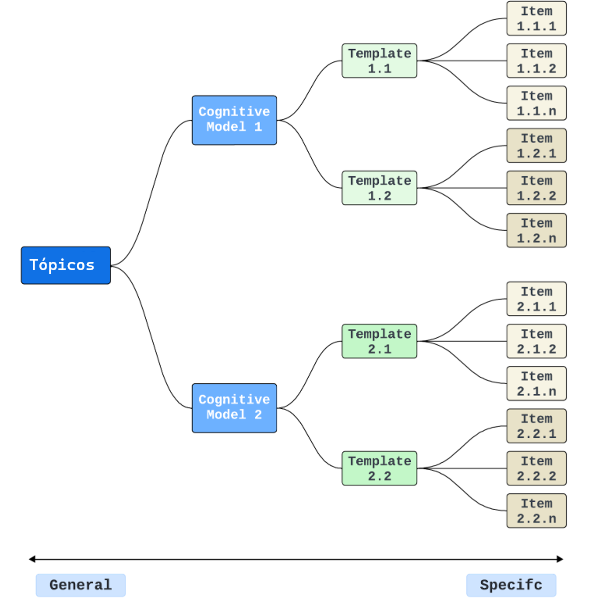
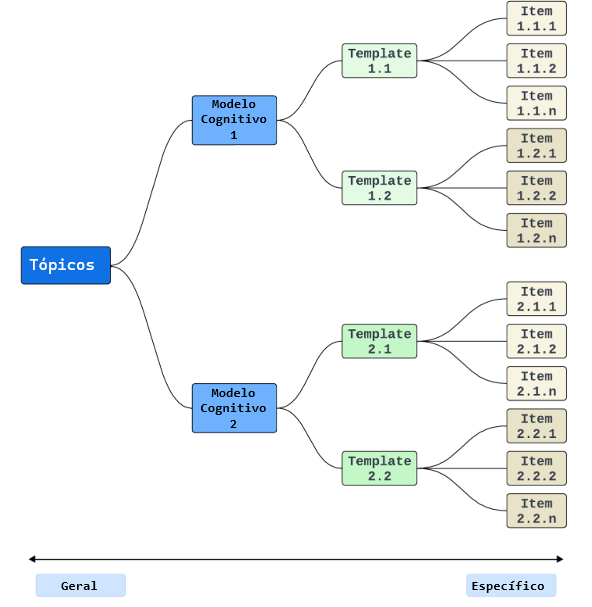
proposta conceitual 1

diff --git a/capitulos/cap5-proposta-conceitual.tex b/capitulos/cap5-proposta-conceitual.tex
@@ -1,6 +1,6 @@
-\chapter{Proposta Conceitual}
+\chapter{Modelo Conceitual}
 
-Esta seção apresenta uma proposta de utilização de \textit{templates} multicamadas para criar e manipular questões de programação. A ideia inclui o emprego de inteligência artificial generativa como ferramenta complementar, responsável por sugerir variações criativas no \textit{template} base, tais como modificações de contexto, acréscimo de novos cenários e introdução de pontos de variação. Além disso, a IA generativa também oferece suporte no fornecimento de \textit{feedback} imediato ao estudante após a submissão da resposta, apontando erros, sugerindo melhorias e apresentando explicações detalhadas sobre o problema e possíveis soluções. 
+Este capítulo apresenta um modelo de utilização de \textit{templates} multicamadas para construir e manipular questões de programação. A ideia inclui o emprego de inteligência artificial generativa como ferramenta complementar, responsável por sugerir variações criativas no \textit{template} base, tais como modificações de contexto, acréscimo de novos cenários e introdução de pontos de variação. Além disso, a IA generativa também oferece suporte no fornecimento de \textit{feedback} imediato ao estudante após a submissão da resposta, apontando erros, sugerindo melhorias e apresentando explicações detalhadas sobre o problema e possíveis soluções. 
 
 \section{Geral para o Específico}
 A geração automática de questões segue um processo hierárquico que se inicia em tópicos mais amplos e evolui até questões específicas. Em primeiro lugar, são definidos os tópicos da ementa, que correspondem a áreas ou domínios do conhecimento a serem avaliados (por exemplo, Estruturas de Repetição, Estruturas de Decisão, Matrizes, Funções). Esses tópicos abrangem conteúdos específicos do currículo e orientam a elaboração dos modelos cognitivos. Na etapa seguinte, estes modelos cognitivos são convertidos em \textit{templates}, que servirão de base para a geração das questões. Essa abordagem reflete a metodologia recomendada para a criação de questões baseadas em \textit{templates}. 
@@ -15,10 +15,7 @@ A geração automática de questões segue um processo hierárquico que se inici
 
 \section{Escala de proficiência}
 
-A classificação das questões com base em atributos e características, como o nível de dificuldade, é essencial nas avaliações educacionais. Agrupar questões por níveis de dificuldade (fácil, médio e difícil) possibilita organizar bancos de questões que atendem diferentes perfis de estudantes.  Esse agrupamento é especialmente relevante em contextos que utilizam testes adaptativos , onde o sistema ajusta a dificuldade das questões apresentadas de acordo com o nível de aptidão do aluno. Assim, é possível proporcionar uma experiência de aprendizado personalizada, onde cada questão apresentada se adequa ao desempenho e à evolução do aluno ao longo das avaliações. \textbackslash{}\parencite{pasquali2018}. 
-
-
-A figura \ref{fig:proficiency-scale}  ilustra um banco de modelos estruturado para oferecer templates compatíveis com diferentes níveis de dificuldade. Esse tipo de organização permite um maior controle sobre a dificuldade das questões geradas.
+A classificação das questões com base em atributos e características, como o nível de dificuldade, é essencial nas avaliações educacionais. Agrupar questões por níveis de dificuldade (fácil, médio e difícil) possibilita organizar bancos de questões que atendem diferentes perfis de estudantes.  Esse agrupamento é especialmente relevante em contextos que utilizam testes adaptativos, onde o sistema ajusta a dificuldade das questões apresentadas de acordo com o nível de aptidão do aluno. Assim, é possível proporcionar uma experiência de aprendizado personalizada, onde cada questão apresentada se adequam ao desempenho e à evolução do aluno ao longo das avaliações \parencite{pasquali2018}. A figura \ref{fig:proficiency-scale}  ilustra um banco de modelos estruturado para oferecer templates compatíveis com diferentes níveis de dificuldade. Esse tipo de organização permite um maior controle sobre a dificuldade das questões geradas.
 
 
 \begin{figure}[ht]
@@ -30,7 +27,7 @@ A figura \ref{fig:proficiency-scale}  ilustra um banco de modelos estruturado pa
 
 \section{Estrutura dos Templates em JSON}
 
-O JSON foi adotado como formato padrão para a construção dos templates de questões devido ao seu alto desempenho, simplicidade e facilidade de uso. Em comparação ao XML, o JSON mostrou-se mais eficiente em diversas métricas, conforme demonstrado no trabalho de \parencite{wang2011}, que indica um ganho de  48,56\% na velocidade de carregamento de 1000 objetos por página comparado com o XML. Esse resultado deve-se, em grande parte, à estrutura mais enxuta do JSON, que demanda menos esforço de interpretação se comparado ao uso extensivo de \textit{tags} no XML.  Além disso, o JSON oferece suporte nativo a tipos de dados como \textit{arrays}, números, \textit{strings} e valores booleanos, o que simplifica o tratamento de estruturas hierárquicas — característica fundamental na representação de templates de questões.
+O JSON foi adotado como formato padrão para a construção dos templates de questões devido ao seu alto desempenho, simplicidade e facilidade de uso. Em comparação ao XML, o JSON mostrou mais eficiente em diversas métricas, conforme demonstrado no trabalho de \parencite{wang2011}, que indica um ganho de  48,56\% na velocidade de carregamento de 1000 objetos por página comparado com o XML. Esse resultado deve, em grande parte, à estrutura mais enxuta do JSON, que demanda menos esforço de interpretação se comparado ao uso extensivo de \textit{tags} no XML.  Além disso, o JSON oferece suporte nativo a tipos de dados como \textit{arrays}, números, \textit{strings} e valores booleanos, o que simplifica o tratamento de estruturas hierárquicas — característica fundamental na representação de templates de questões.
 
 \begin{figure}[ht]
 	\centering
@@ -44,19 +41,19 @@ Outro fator relevante é a compatibilidade do JSON com linguagens modernas, como
 
 \section{Representação Hierárquica dos Templates em JSON}
 
-Inicialmente, escrever o modelo de questão em um editor de texto é uma prática útil para planejar a estrutura do template. No entanto, a fase seguinte envolve a estruturação desse modelo em formato JSON, o que facilita a manipulação e a geração de questões de forma automatizada. A transição para JSON permite que o template seja facilmente editado e gerenciado, permitindo o desenvolvimento de \textit{scripts} ou algoritmos capazes de gerar automaticamente diversas instâncias de questões a partir do template.
-A Figura \ref{fig:template-json-example-1} ilustra como o template pode ser organizado no formato JSON, composto por três componentes principais: Texto Principal (\textit{Stem}), Variáveis e as Multicamadas (\textit{N-Layers}). Cada elemento desempenha um papel específico conforme as seguintes finalidades:
+Inicialmente, escrever o modelo de questão em um editor de texto é uma prática útil para planejar a estrutura do template. No entanto, a fase seguinte envolve a estruturação desse modelo em formato JSON, o que facilita a manipulação e a geração de questões de forma automatizada. A transição para JSON permite que o template seja editado e gerenciado, permitindo o desenvolvimento de \textit{scripts} ou algoritmos capazes de gerar automaticamente diversas instâncias de questões a partir do template.
+A Figura \ref{fig:template-json-example-1} descreve como o template pode ser organizado no formato JSON, que é composto por três componentes : Texto Principal (\textit{Stem}), Variáveis e as Multicamadas (\textit{N-Layers}). Cada elemento desempenha um papel específico conforme as seguintes finalidades:
 
 
 \begin{itemize} \item \textbf{Texto Principal (\textit{Stem})} \begin{itemize} \item Representa o texto base da questão, servindo de ponto de partida para a formulação do template. Nele contém trechos fixos e indicações de onde as variáveis serão inseridas, tornando a questão adaptável a diferentes contextos. \end{itemize}
 \item \textbf{Variáveis (\textit{Variables})}
 \begin{itemize}
-    \item Inclui parâmetros e conteúdos que podem variar, permitindo a personalização do texto principal com indicações de onde serão inseridas no enunciado, de forma que permita a flexibilidade e reutilização destas variáveis em outros cenários.
+    \item Inclui parâmetros e conteúdos  que podem variar, permitindo a personalização do texto principal com indicações de onde serão inseridas no enunciado, de forma que permita a flexibilidade e reutilização destas variáveis em outros cenários específicos.
 \end{itemize}
 
 \item \textbf{Multicamadas (\textit{N-Layers})}
 \begin{itemize}
-    \item Funcionam como \textit{subtemplates} dentro do template principal, que possibilita a inclusão de novas variáveis e conteúdos para expandir e adaptar o enunciado da questão em diferentes cenários, um sub-layer sempre deriva do template principal.
+    \item Funcionam como \textit{subtemplates} dentro do template principal, que possibilita a inclusão de novas variáveis e conteúdos para expandir e adaptar o enunciado da questão em diferentes cenários, um sub-template sempre deriva do template principal.
     \end{itemize}
 \end{itemize}
 
@@ -73,9 +70,9 @@ A Figura \ref{fig:template-json-example-1} ilustra como o template pode ser orga
 
 O mecanismo de combinação consiste em um processo de geração de questões a partir do \textit{template} principal, descrito no formato JSON, que contém estruturas de texto e múltiplas opções de conteúdo. Esse \textit{template} atua como um conjunto de possibilidades, permitindo que novas perguntas sejam criadas de forma sistemática, por meio da seleção e combinação das variações de cada campo.
 
-Para que o \textit{template} seja aplicado em diferentes cenários, é utilizado um segundo arquivo JSON onde cada chave representa a configuração de uma questão específica e cada valor corresponde ao índice selecionado em cada campo do \textit{template}. Dessa forma, se no campo \textbf{"introduction": ["intro\_1", intro\_2", "intro\_3"]} se a questão exigir a segunda opção, o valor referenciado será o índice \texttt{\textbf{1}} (assumindo zero como base de indexação). Essa abordagem sistematiza a produção automatizada de questões, pois basta apenas alterar os índices para gerar combinações distintas, sem alterar a estrutura original do texto.
+Para que o \textit{template} seja aplicado em diferentes cenários, é utilizado um segundo arquivo JSON onde cada chave representa a configuração de uma questão específica e cada valor corresponde ao índice selecionado em cada campo do \textit{template}. Dessa forma, se no campo \textbf{"untroducao": ["intro\_1", intro\_2", "intro\_3"]} caso a questão for exigido a segunda opção, o valor referenciado será o índice \texttt{\textbf{1}} (assumindo zero como base de indexação). Essa abordagem sistematiza a produção automatizada de questões, pois basta apenas alterar os índices para gerar combinações distintas, sem alterar a estrutura original do texto.
 
-A Figura \ref{fig:template-1} (referente ao \textit{template}) e a Figura \ref{fig:template-2} (referente às instâncias de questões) ilustram esse processo. Enquanto a primeira foca nos template em si e seus valores possíveis, a segunda demonstra como cada questão seleciona um conjunto de índices para formar a questão final. 
+A Figura \ref{fig:template-1} (referente ao \textit{template}) e a Figura \ref{fig:template-2} (referente às instâncias de questões) apresentam esse processo. Enquanto a primeira foca nos template em si e seus valores possíveis, a segunda demonstra como cada questão seleciona um conjunto de índices para formar a questão final. 
 
 \begin{figure}[ht]
 	\centering
@@ -86,7 +83,7 @@ A Figura \ref{fig:template-1} (referente ao \textit{template}) e a Figura \ref{f
 
 \begin{figure}[ht]
 	\centering
-	\includegraphics[width=14cm]{./imagens/capitulo5/template-2}
+	\includegraphics[width=18cm]{./imagens/capitulo5/template-2}
 	\caption{Template de questões (Elaboração própria, 2025) }
 	\label{fig:template-2}
 \end{figure}

diff --git a/DissertacaoPPgSC.tex b/DissertacaoPPgSC.tex
@@ -158,21 +158,21 @@
   % \input{capitulos/cap3-trabalhos-relacionados.tex}
 
    % Capitulo 4: Fundamentação Teórica
-  \input{capitulos/cap4-fundamentacao-teorica}
+  % \input{capitulos/cap4-fundamentacao-teorica}
 
   % Capitulo 4: Quarto capítulo (arquivo capitulos/capitulo4.tex)
   %\input{capitulos/Cap4_Matematica.tex}
 
 
 % Capitulo 5: Proposta Conceitual
-%\input{capitulos/cap5-proposta-conceitual.tex}
+\input{capitulos/cap5-proposta-conceitual.tex}
 
   % Capitulo 5: Quinto capítulo (arquivo capitulos/capitulo5.tex)
   %\input{capitulos/Cap5_DesenhosAnimacoes.tex}
 
 
 % Capitulo 5: Proposta de ferramenta
-%\input{capitulos/cap6-proposta-de-ferramenta}
+\input{capitulos/cap6-proposta-de-ferramenta}
   
   % Capitulo 6: Sexto capítulo (arquivo capitulos/capitulo6.tex)
   %\input{capitulos/Cap6_Correcoes.tex}
